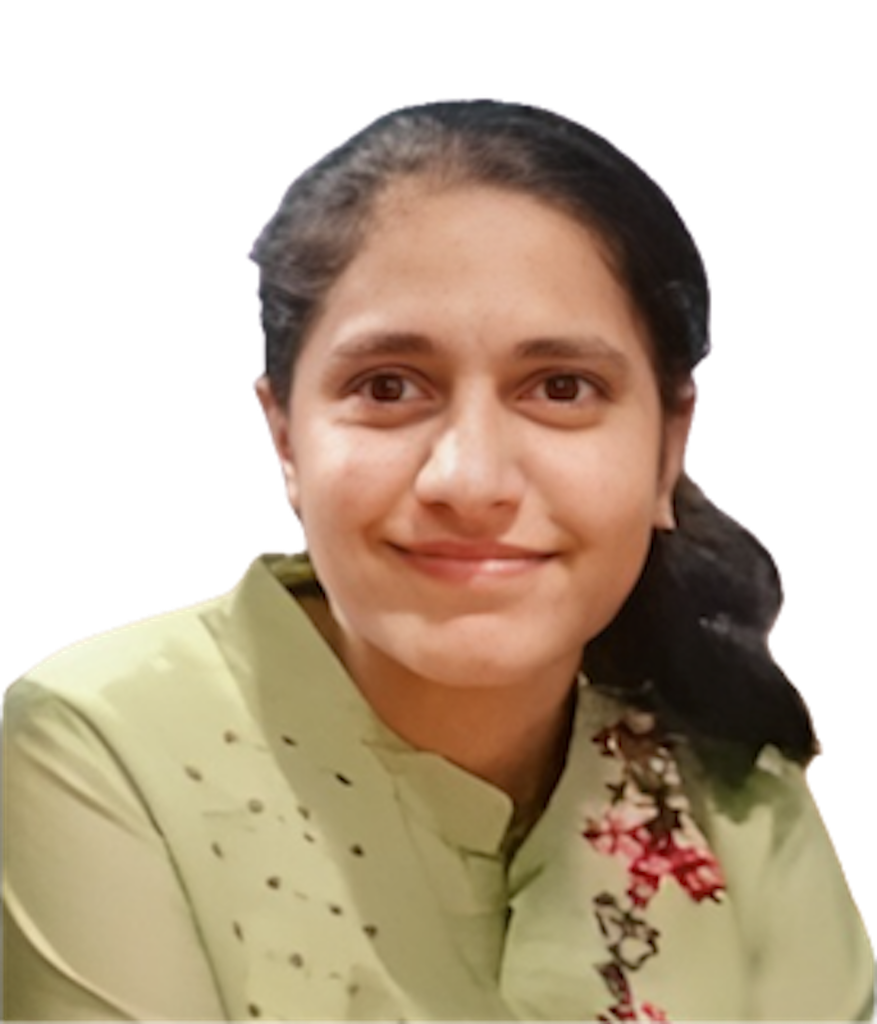
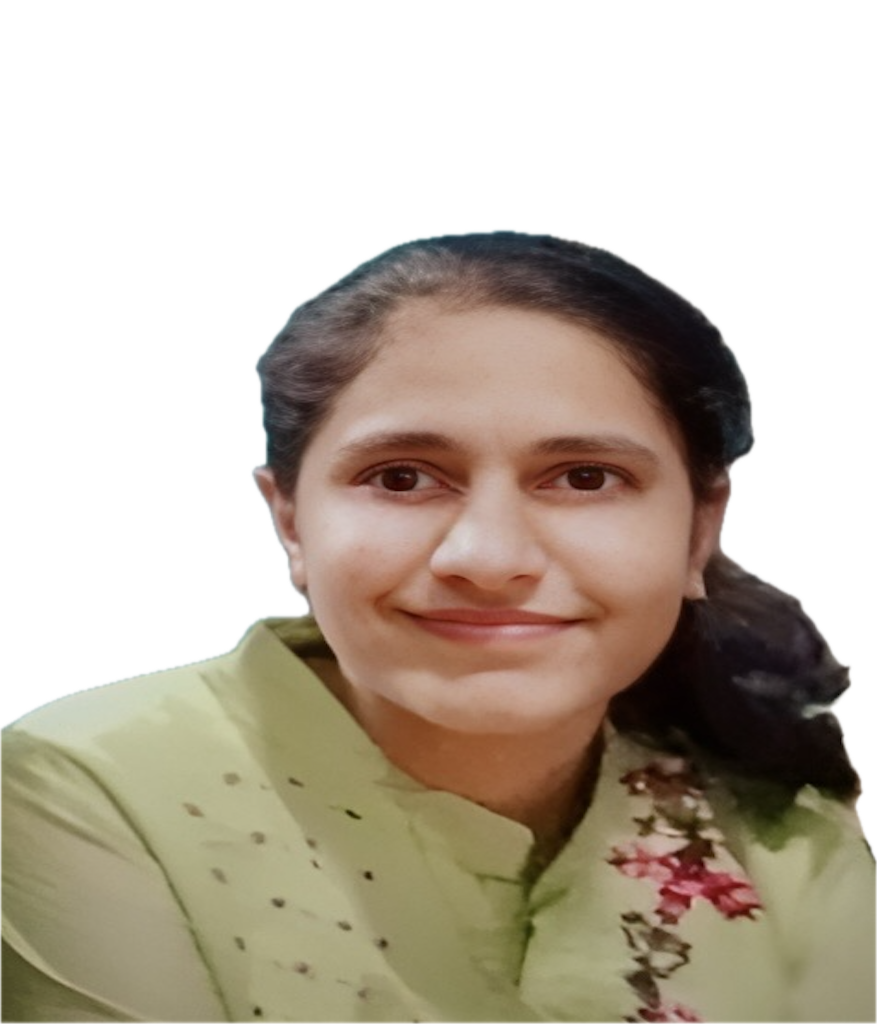
edited

diff --git a/index.html b/index.html
@@ -121,9 +121,10 @@
                     <div class="about__content">
                         <h3 class="info__title">About Me</h3>
                          <p class="about__description">
-                            Passionate about learning AI and Machine Learning.
-                            I have experience in <b>Machine Learning</b> with 
-                            several projects completed.
+                            Aspiring Data Engineer with hands-on experience in ETL tools like
+                            <b>Informatica</b> and <b>IBM DataStage</b>. 
+                            Additionally, I have experience in <b>Machine Learning</b> with multiple completed projects,
+                            showcasing my ability to work with large datasets and build data-driven solutions.
                          </p>
 
                          <a href="assets/Hema_CV.pdf" download="" target="_blank" class="button about__button">Download CV</a>
@@ -134,6 +135,19 @@
                 <!--experience-->
                 <div class="experience">
                     <h3 class="info__title">Experience</h3>
+
+                    <div class="experience__content grid">
+                        <div class="experience__data grid">
+                            <h2 class="experience__company">Deloitte(Full-Time)</h2>
+                            <div>
+                                <h3 class="experience__profession">Analyst Trainee</h3>
+                                <span class="experience__date">11/2024 - Present</span>
+                                <p class="experience__description">
+                                    Completed training in Informatica Power center and Informatica Intelligent cloud services and also
+                                    acquired advance skills in sql and PL/SQL.
+                                </p>
+                            </div>
+                        </div>
 
                     <div class="experience__content grid">
                         <div class="experience__data grid">
@@ -213,6 +227,26 @@
                         <div class="skills__box">
                             <img src="assets/img/info-aws.svg" alt="image" class="skills__img">
                             <span class="skills__name">AWS</span>
+                        </div>
+                        <div class="skills__box">
+                            <img src="assets/img/info-informatica.jpg" alt="image" class="skills__img">
+                            <span class="skills__name">Informatica</span>
+                        </div>
+                        <div class="skills__box">
+                            <img src="assets/img/info-dw.jpg" alt="image" class="skills__img">
+                            <span class="skills__name">Data Warehousing</span>
+                        </div>
+                        <div class="skills__box">
+                            <img src="assets/img/info-snowflake.jpg" alt="image" class="skills__img">
+                            <span class="skills__name">Snowflake</span>
+                        </div>
+                        <div class="skills__box">
+                            <img src="assets/img/info-powerbi.jpg" alt="image" class="skills__img">
+                            <span class="skills__name">Power BI</span>
+                        </div>
+                        <div class="skills__box">
+                            <img src="assets/img/info-anthropic.jpeg" alt="image" class="skills__img">
+                            <span class="skills__name">Anthropic AI</span>
                         </div>
                     </div>
                 </div>

diff --git a/assets/css/styles.css b/assets/css/styles.css
@@ -259,7 +259,7 @@ img {
 }
 
 .home__img{
-  width: 220px;
+  width: 250px;
   justify-self: center;
   mask-image: linear-gradient(to bottom,
               hsla(var(--hue), 40%, 16%) 60%,
